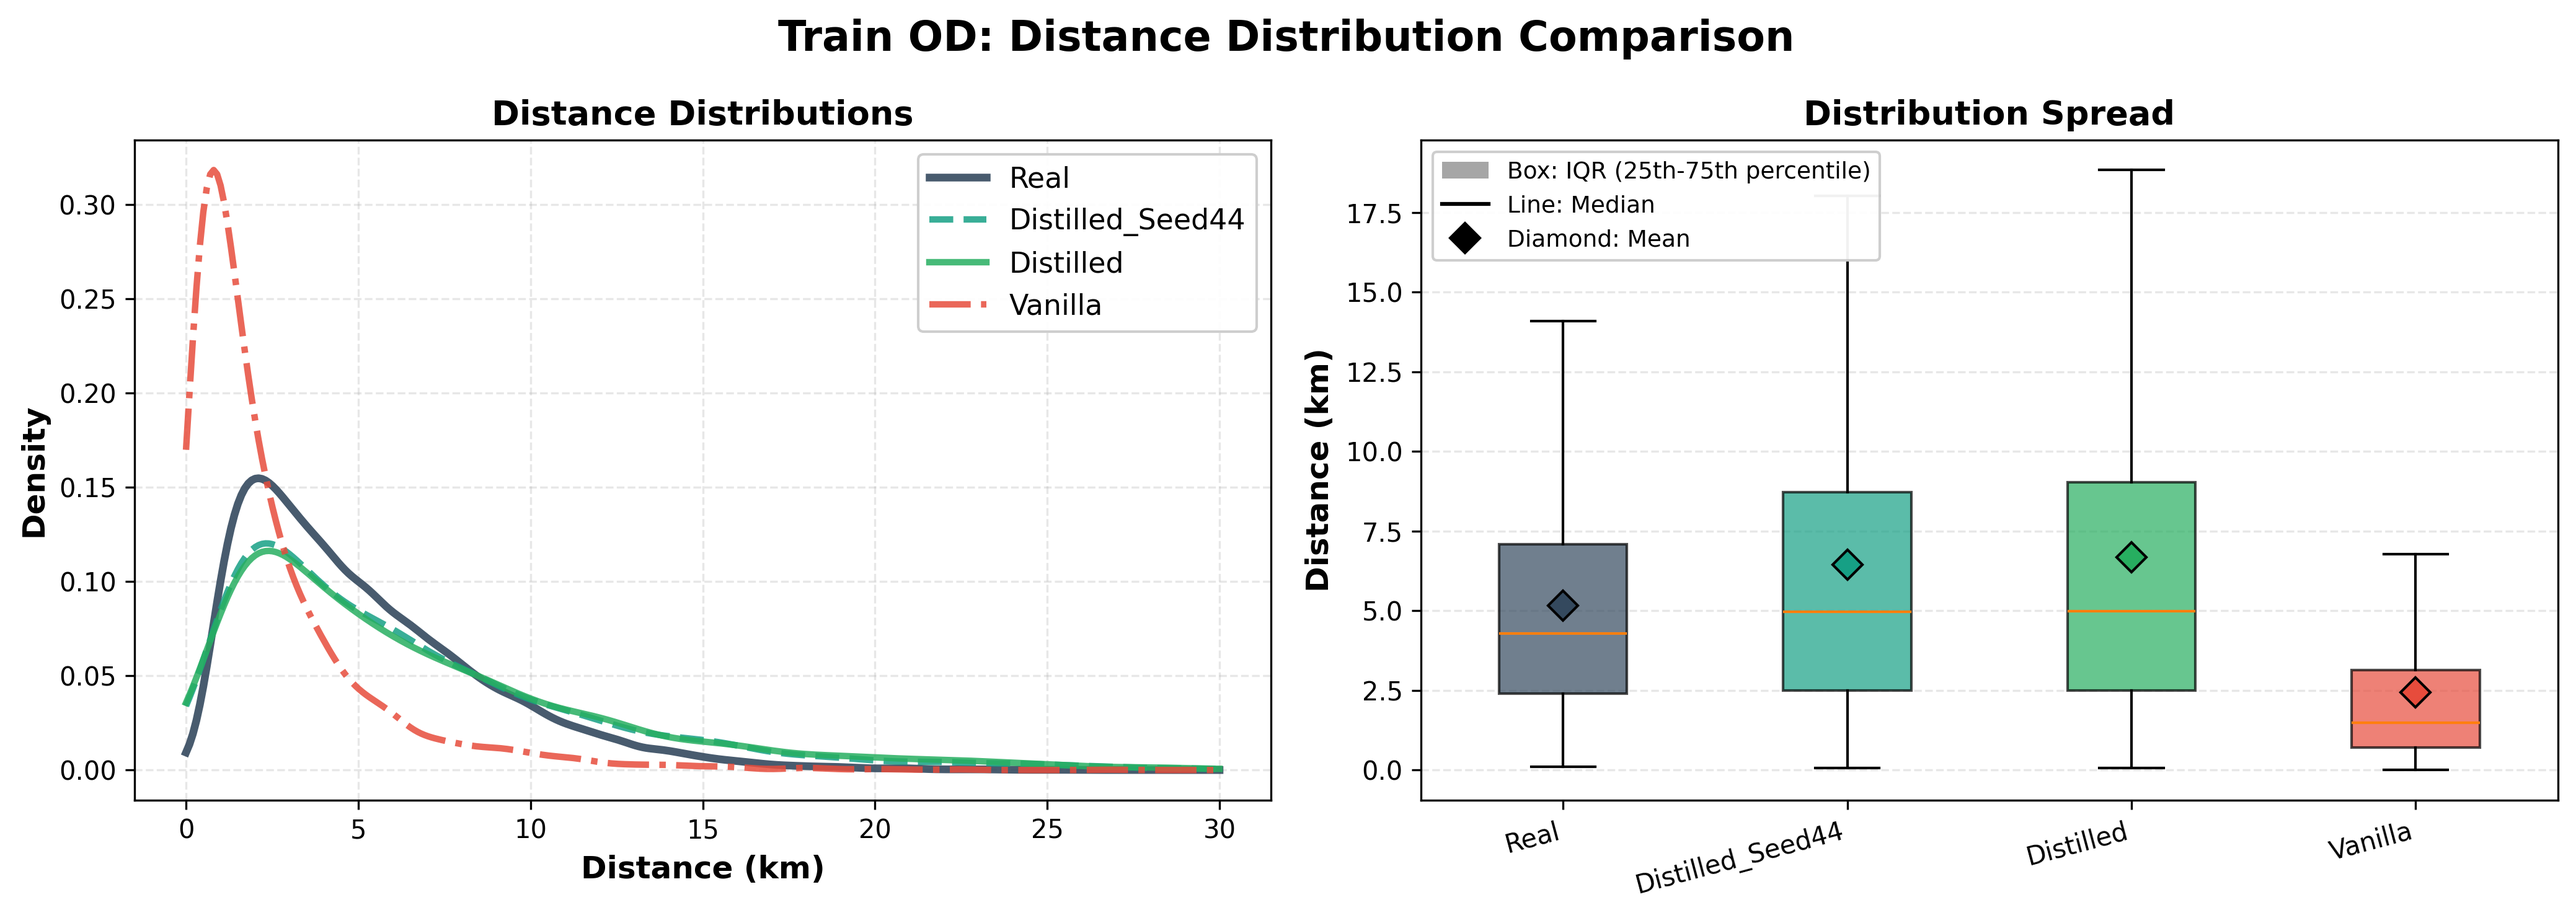
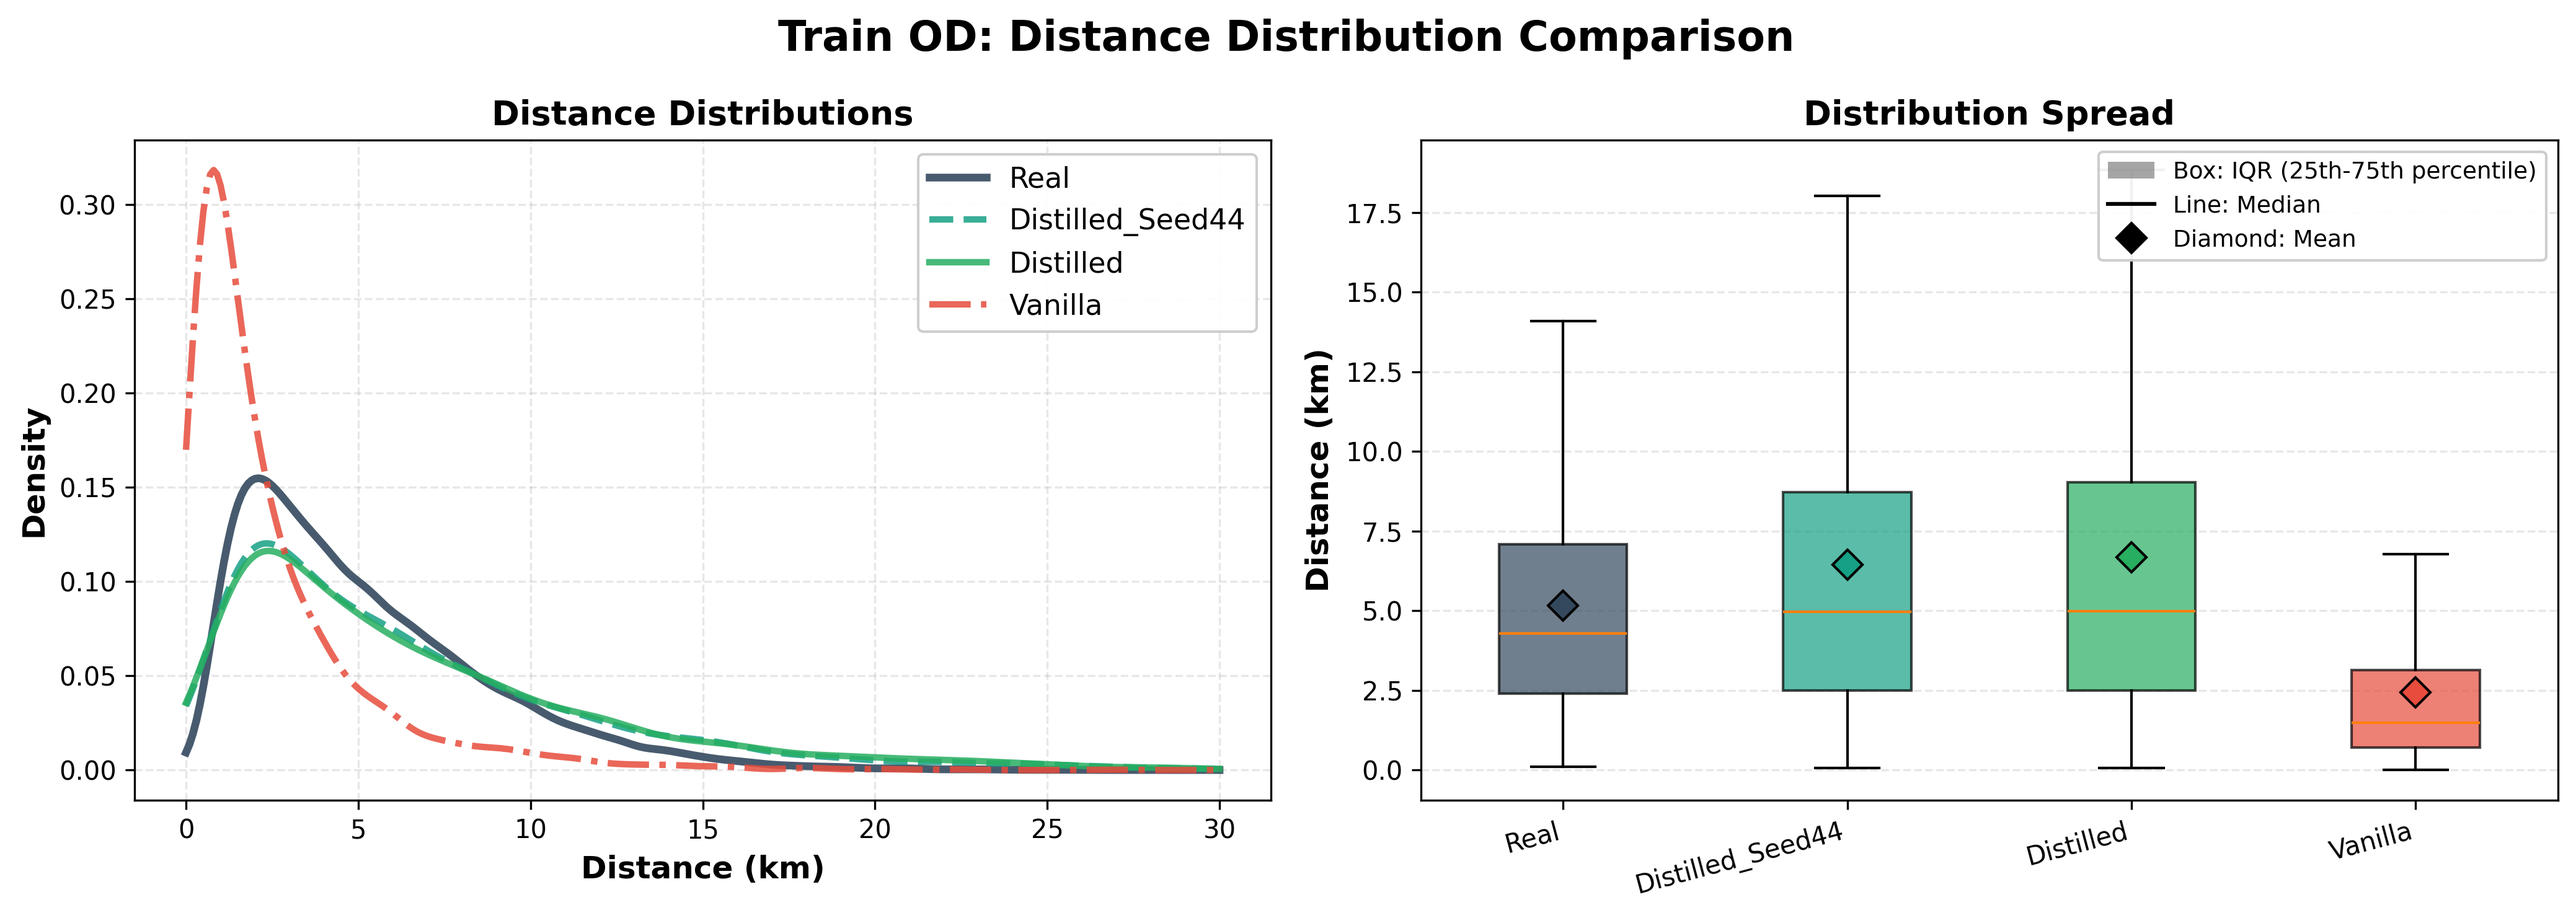
🎨 style: move box plot legend to upper right
Repositioned legend from upper left to upper right to avoid obstructing data in box plots.

Changed region(s): [[0.8072, 0.1553, 0.9935, 0.2795], [0.5588, 0.1553, 0.7451, 0.2795]]

diff --git a/hoser-distill-optuna-6/create_distribution_plots.py b/hoser-distill-optuna-6/create_distribution_plots.py
@@ -332,7 +332,7 @@ class DistributionPlotter:
             Line2D([0], [0], color='black', marker='D', markersize=8, linestyle='None',
                    markeredgecolor='black', markeredgewidth=1, label='Diamond: Mean')
         ]
-        ax2.legend(handles=legend_elements, loc='upper left', fontsize=9, framealpha=0.95)
+        ax2.legend(handles=legend_elements, loc='upper right', fontsize=9, framealpha=0.95)
         
         fig.suptitle(title, fontsize=16, fontweight='bold')
         plt.tight_layout()
@@ -414,7 +414,7 @@ class DistributionPlotter:
             Line2D([0], [0], color='black', marker='D', markersize=8, linestyle='None',
                    markeredgecolor='black', markeredgewidth=1, label='Diamond: Mean')
         ]
-        ax2.legend(handles=legend_elements, loc='upper left', fontsize=9, framealpha=0.95)
+        ax2.legend(handles=legend_elements, loc='upper right', fontsize=9, framealpha=0.95)
         
         fig.suptitle(title, fontsize=16, fontweight='bold')
         plt.tight_layout()
